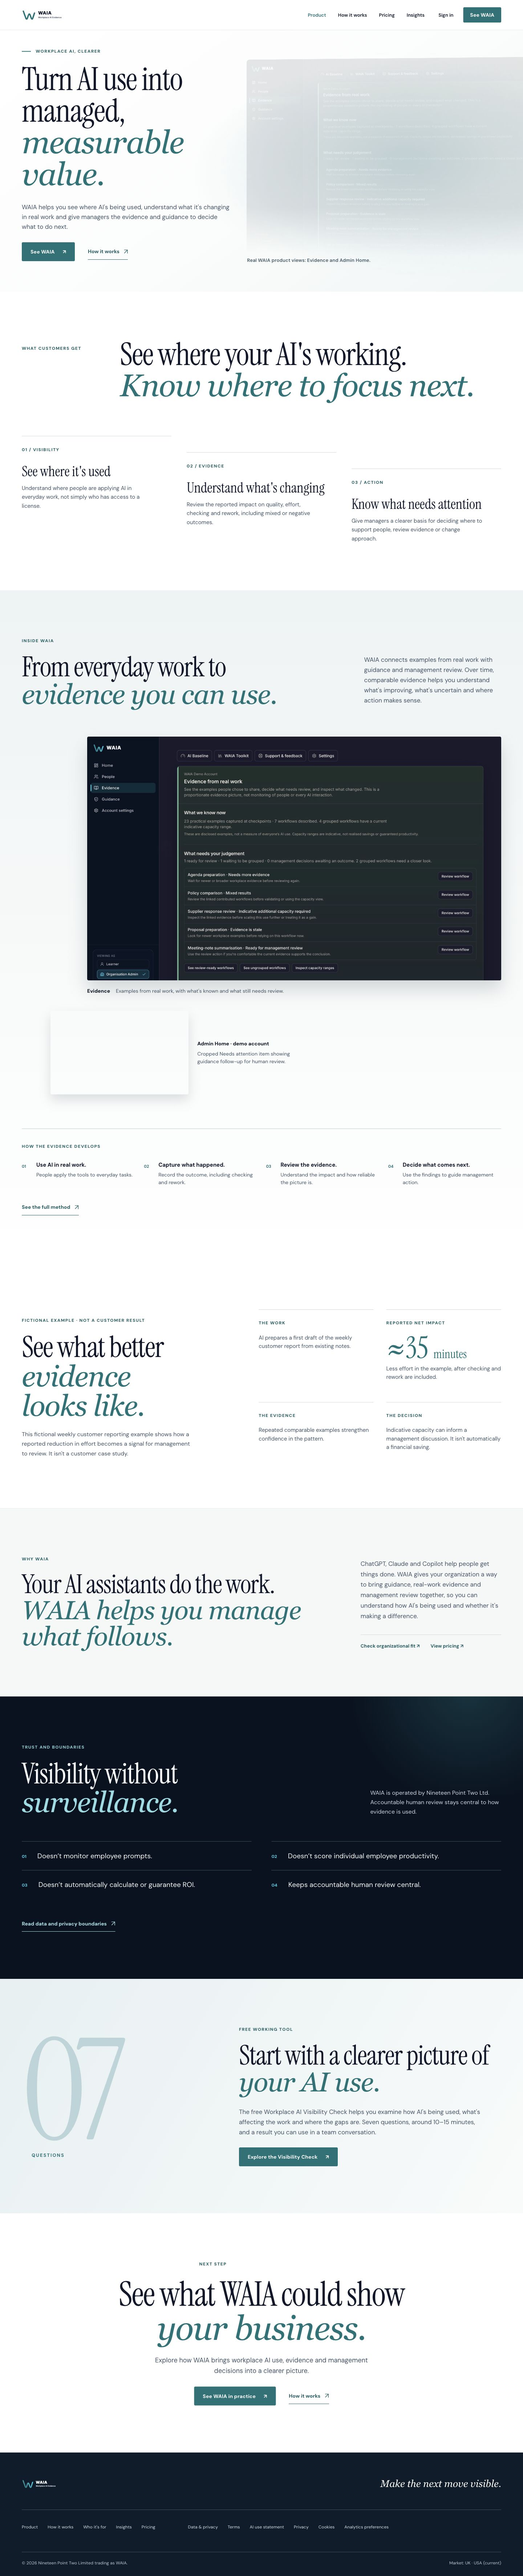
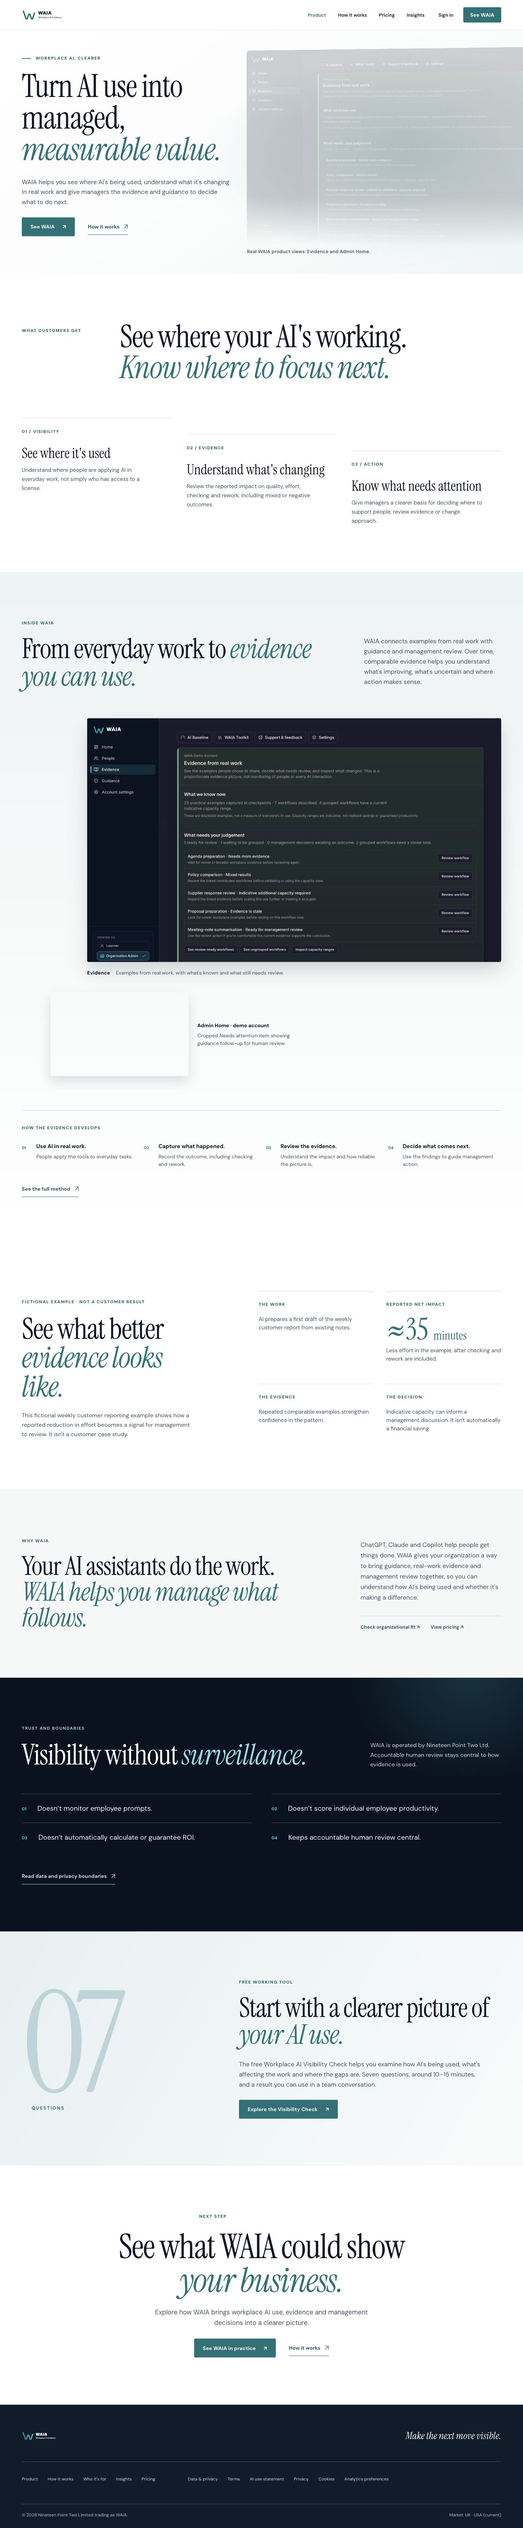
Include CSS-relative fonts in US Pages output

diff --git a/docs/uk-us-parity-2026-11.md b/docs/uk-us-parity-2026-11.md
@@ -25,9 +25,9 @@ The UK fonts, CSS, page compositions, genuine product screenshots, two-image hom
 
 ## Verification and evidence
 
-`node scripts/build-site.mjs` built 35 public HTML files and 37 referenced assets in `dist/`. `node --test scripts/*.test.mjs` passed 78 tests. The suite covers generated article parity, metadata and structured data, the public-output boundary, local links, source attribution, analytics objection, and the inherited UK request/redemption/assessment logic. The build excludes `README.md`, `AGENTS.md`, source Markdown, scripts, automation and Worker source.
+`node scripts/build-site.mjs` built 35 public HTML files and 38 referenced assets in `dist/`. `node --test scripts/*.test.mjs` passed 78 tests. The suite covers generated article parity, metadata and structured data, the public-output boundary, local links, source attribution, analytics objection, and the inherited UK request/redemption/assessment logic. The build excludes `README.md`, `AGENTS.md`, source Markdown, scripts, automation and Worker source.
 
-Browser review covered the homepage, How it works, Who it's for, Pricing, Insights, Visibility Check landing, See WAIA and Data & privacy at 320, 390, 768, 1280 and 1440 px. The US build had no persistent horizontal overflow, missing eager images or font failures. The mobile menu expanded, links were exposed, and keyboard focus was visibly outlined. The transferred styles include reduced-motion rules. One initial image-load reading and one initial UK overflow reading cleared on immediate recheck. The browser reported no console errors in the final local pass. The US start page and live UK start page both link to the same live Tally request form, which loaded. An invalid UK access token displayed the inactive-link error state without presenting a redemption action. Full-page captures and raw measurements are below and in [`us-metrics.json`](uk-us-parity-2026-11/us-metrics.json) and [`uk-metrics.json`](uk-us-parity-2026-11/uk-metrics.json).
+Browser review covered the homepage, How it works, Who it's for, Pricing, Insights, Visibility Check landing, See WAIA and Data & privacy at 320, 390, 768, 1280 and 1440 px. The US build had no persistent horizontal overflow, persistently missing eager images or font failures. The mobile menu expanded, links were exposed, and keyboard focus was visibly outlined. The transferred styles include reduced-motion rules. Transient image-load readings and one initial UK overflow reading cleared on immediate recheck. The CSS-relative italic font was initially missing from `dist/`; the asset collector now copies it and the regression test checks every font URL in the homepage and editorial stylesheets. The browser reported no console errors in the final local pass. The US start page and live UK start page both link to the same live Tally request form, which loaded. An invalid UK access token displayed the inactive-link error state without presenting a redemption action. Full-page captures and raw measurements are below and in [`us-metrics.json`](uk-us-parity-2026-11/us-metrics.json) and [`uk-metrics.json`](uk-us-parity-2026-11/uk-metrics.json).
 
 | Page | Mobile UK / US | Desktop UK / US |
 | --- | --- | --- |
@@ -44,4 +44,4 @@ Browser review covered the homepage, How it works, Who it's for, Pricing, Insigh
 
 No production Tally form was submitted and no live token was redeemed. A controlled owner test should submit the US request form, review the draft/access email, open the UK link, redeem once, finish the seven questions, print/save a result, and confirm expiry or second-use rejection. It should also submit one controlled WAIA enquiry and inspect Tally's stored `product`, `enquiry_type` and `us_*` fields. The existing access form and its confirmation copy are UK-hosted and may retain UK spelling. Cloudflare Pages redirect behavior, the final domain response, preview noindex headers and any configured US analytics property require verification after an approved deployment. Legal and privacy wording is included for owner review before publication.
 
-Human supervision: source selection and owner decisions were supplied in the brief; no routine design decisions were escalated. Rework: old route-exclusion tests were updated and one transient browser reading was rechecked. Escaped defects: none known before deployment; live submissions and hosted redirect behavior remain untested.
+Human supervision: source selection and owner decisions were supplied in the brief; no routine design decisions were escalated. Rework: old route-exclusion tests were updated, a missing CSS-relative font was fixed, and transient browser readings were rechecked. Escaped defects: none known before deployment; live submissions and hosted redirect behavior remain untested.
